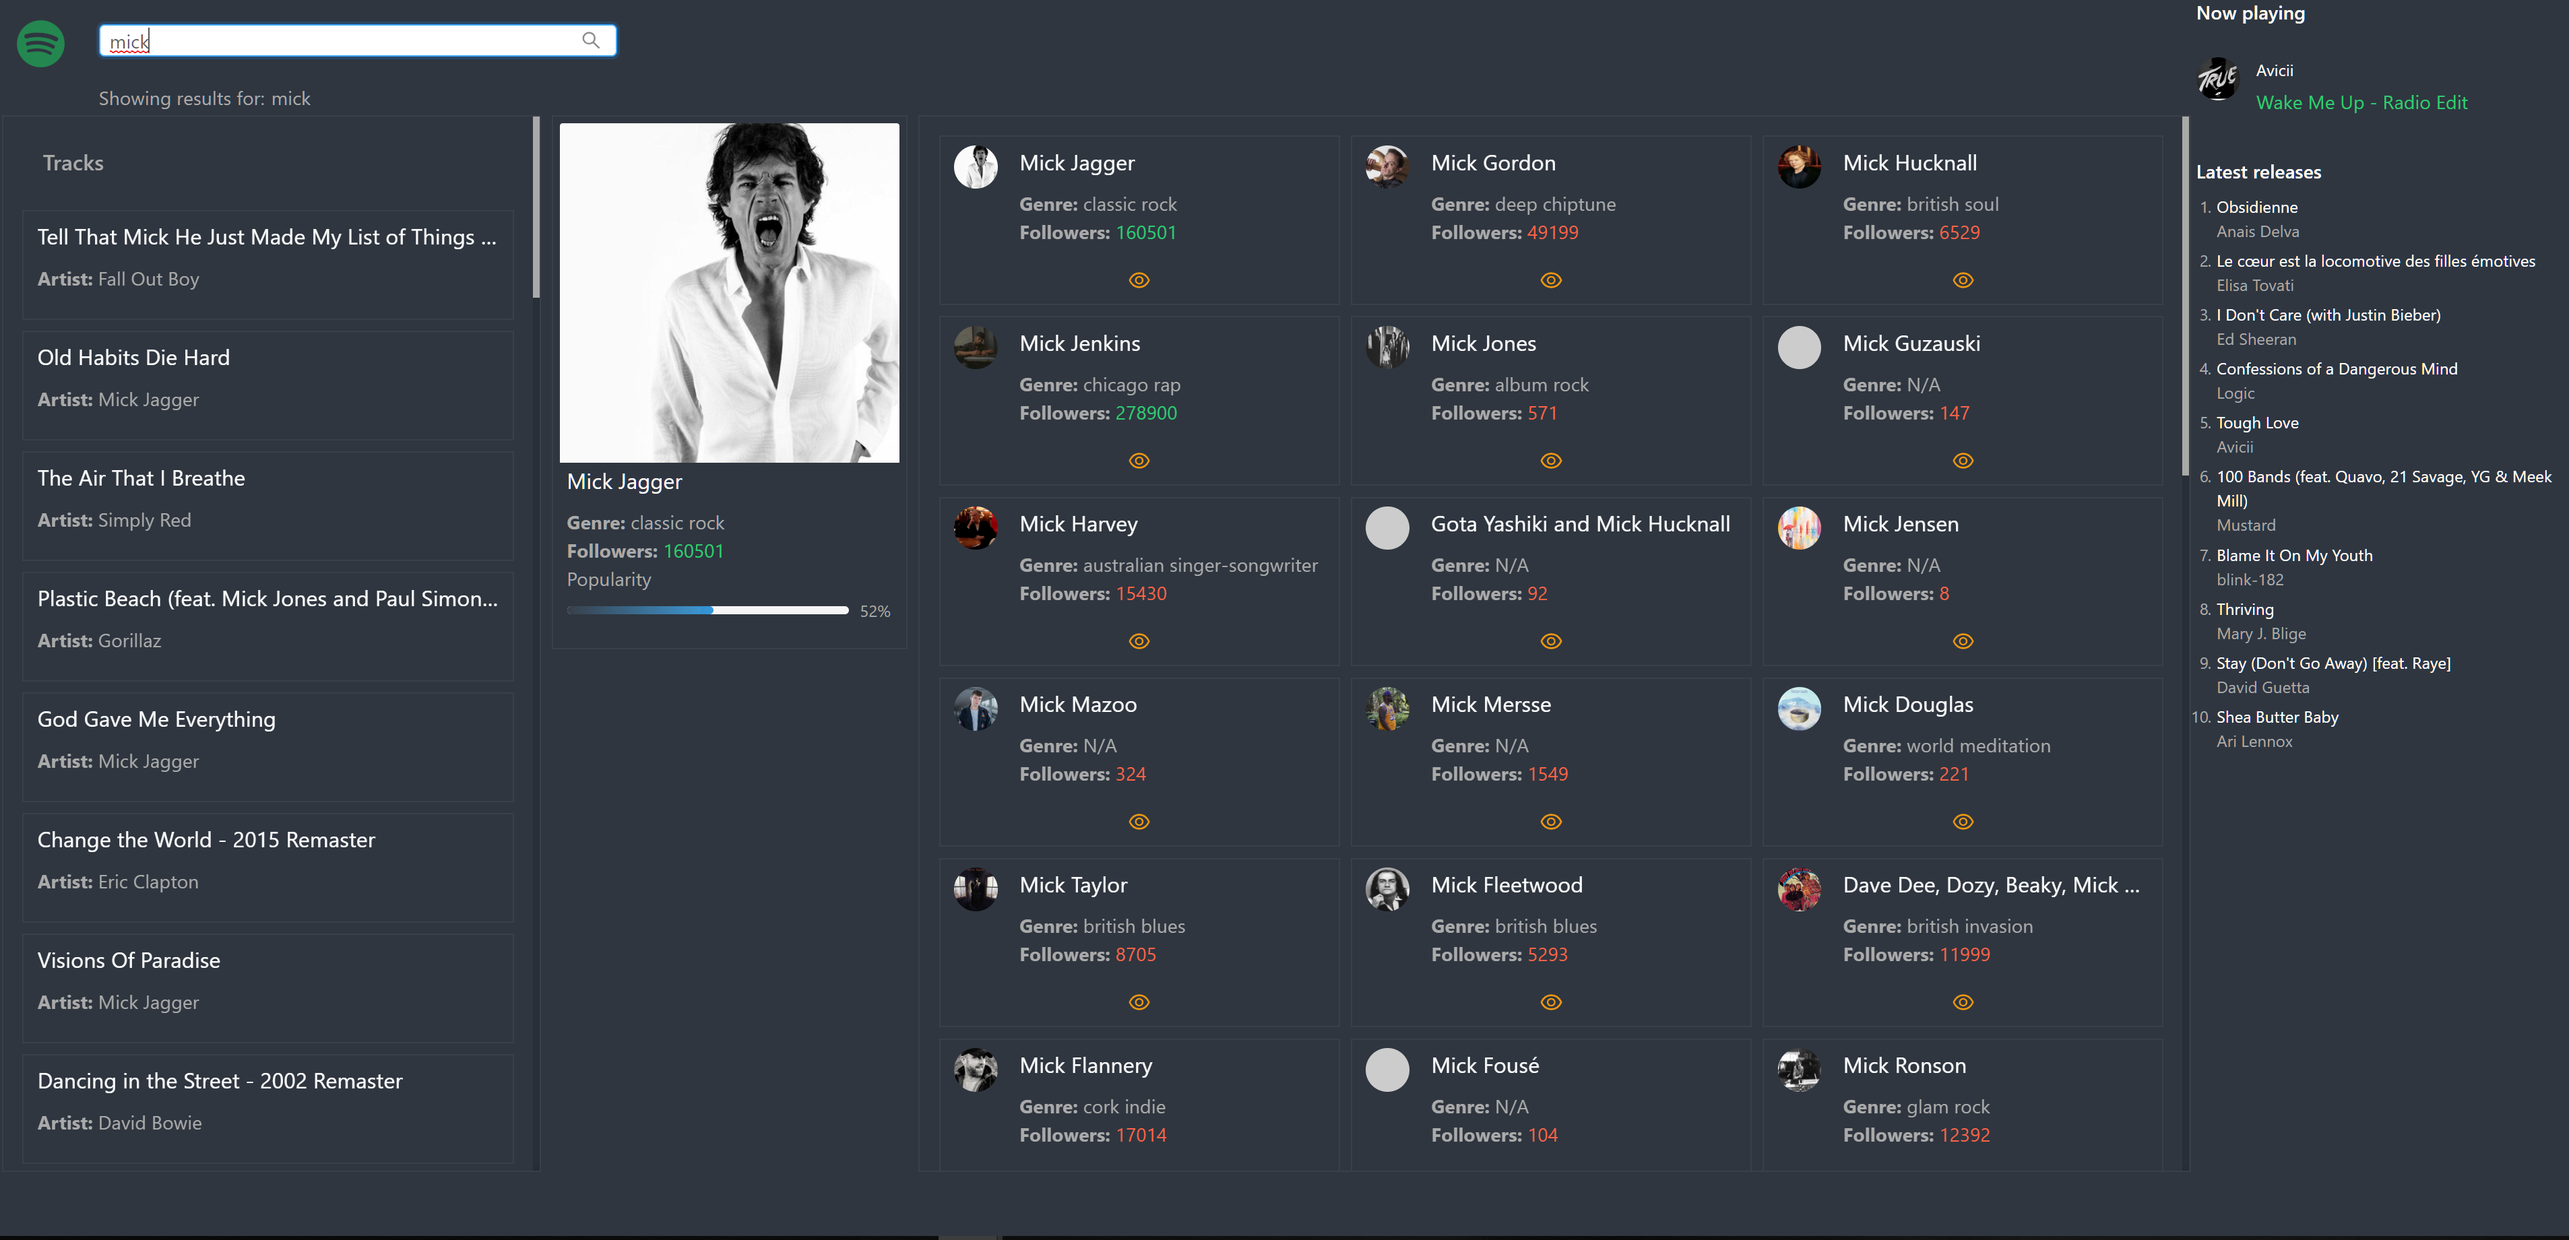
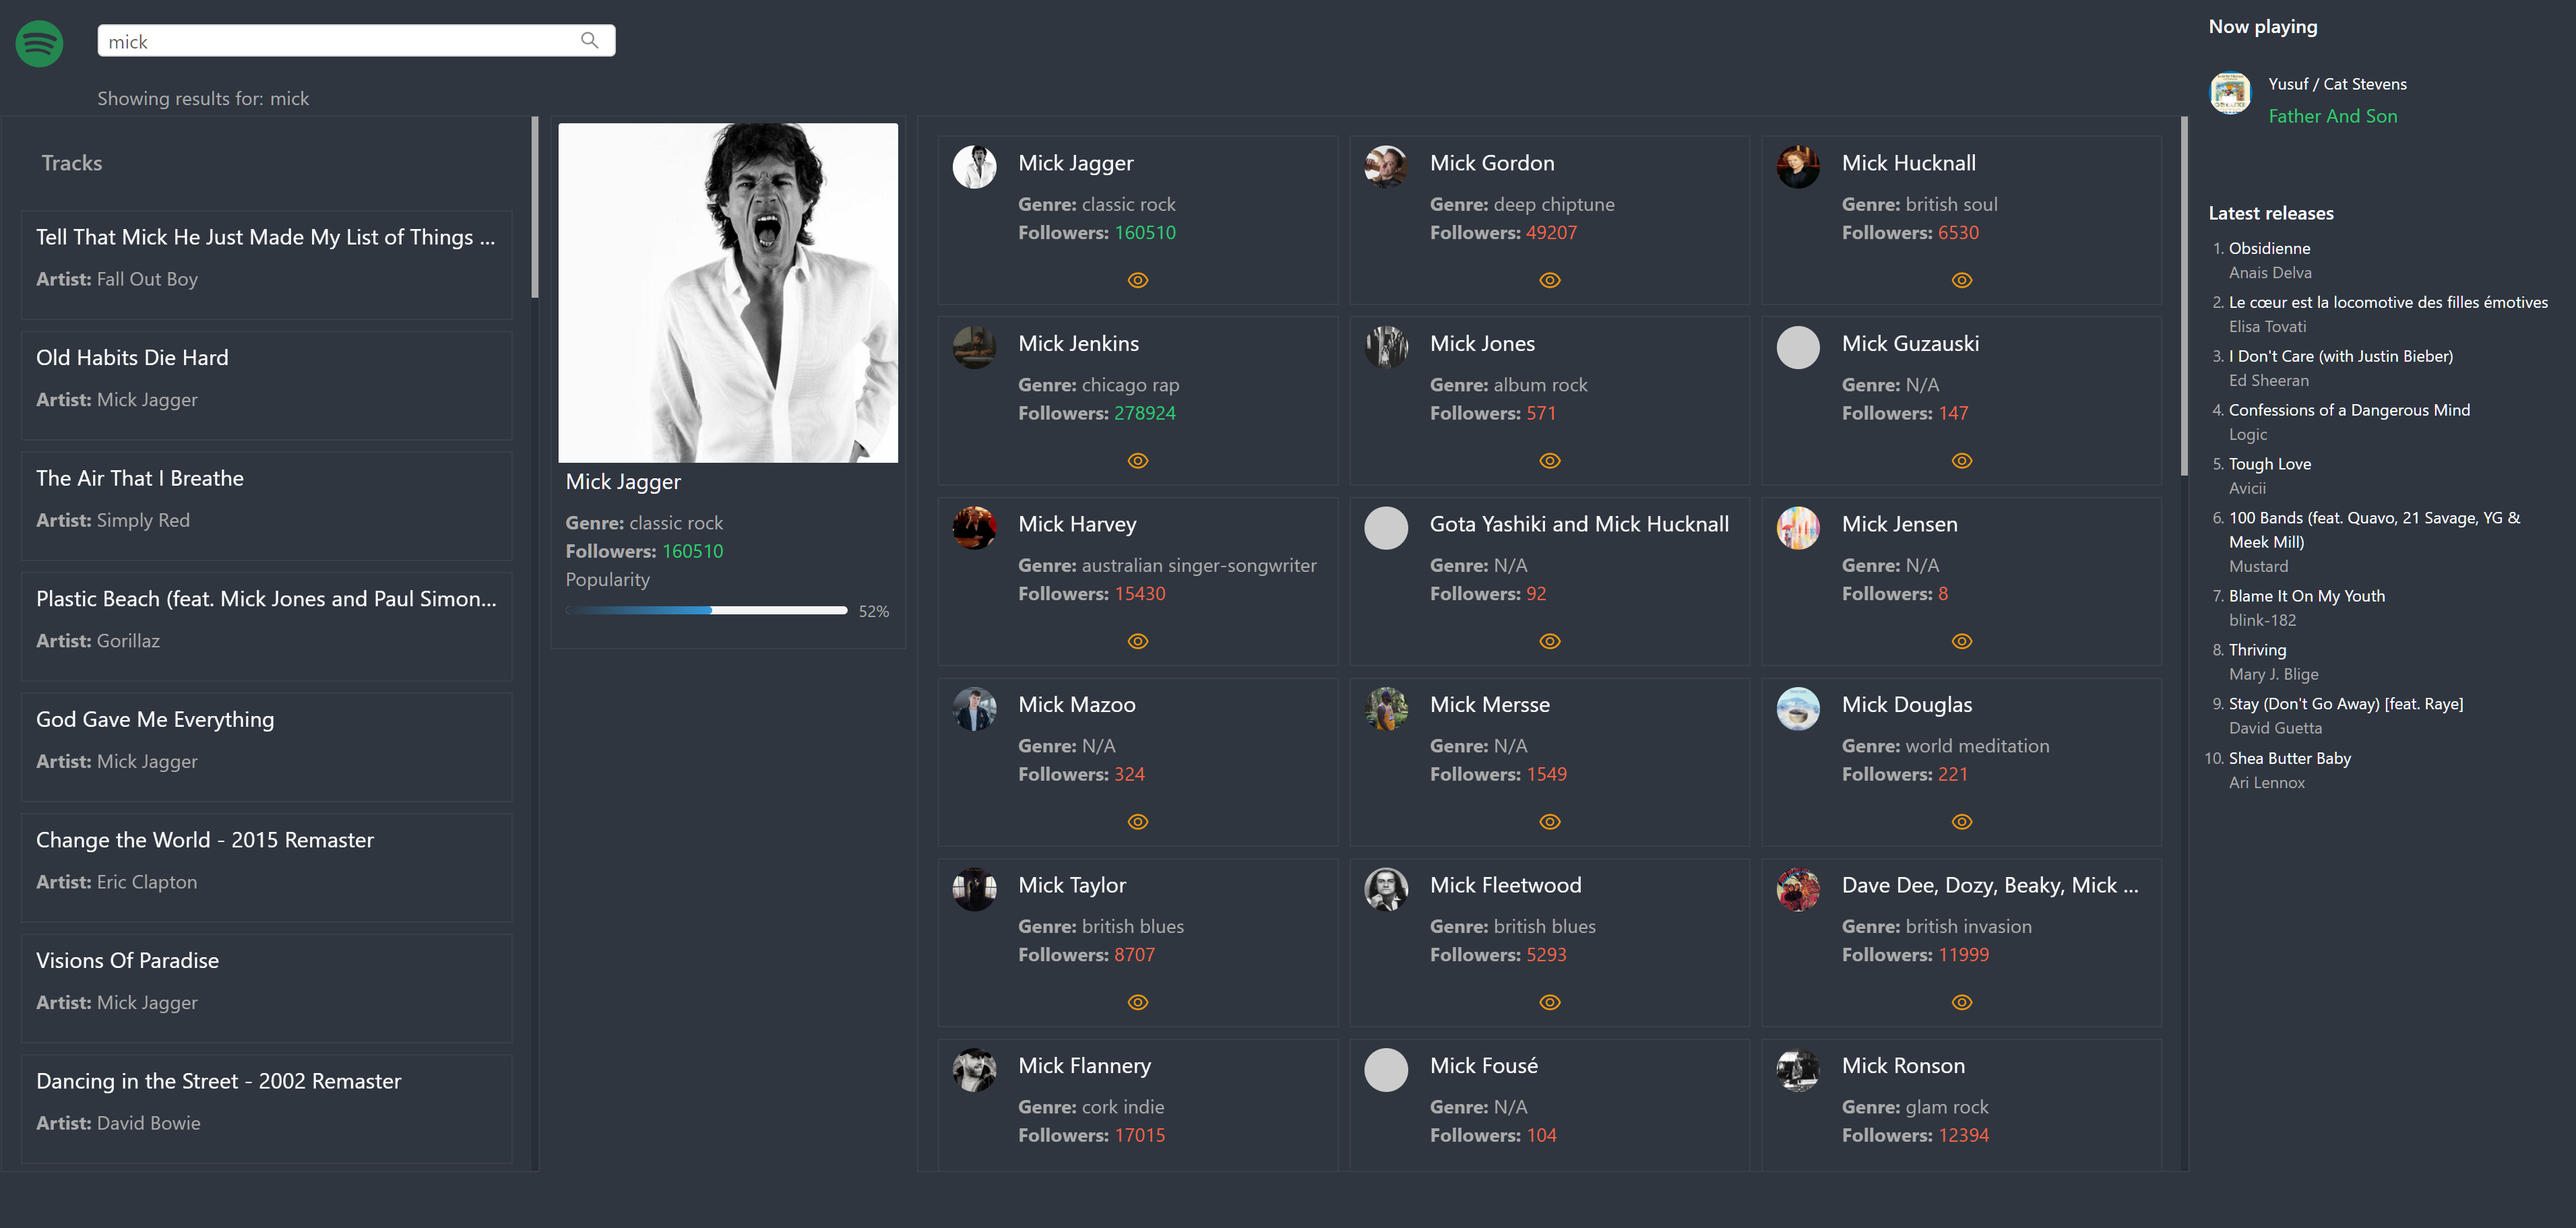
preview

diff --git a/spotify-app/src/App.css b/spotify-app/src/App.css
@@ -61,8 +61,10 @@
 .spfy-app .ant-skeleton-content .ant-skeleton-title,
 .spfy-app .ant-skeleton-content .ant-skeleton-paragraph > li {
   opacity: .15; }
-.spfy-app .sidebar-container h4 {
-  color: #fff; }
+.spfy-app .sidebar-container {
+  padding: 10px; }
+  .spfy-app .sidebar-container h4 {
+    color: #fff; }
 .spfy-app #logo {
   display: inline-block;
   width: 35px;
@@ -75,9 +77,11 @@
     margin: 4px 0; }
     .spfy-app .sidebar-list li span {
       display: block; }
-.spfy-app .now-playing-container,
-.spfy-app .now-playing-container * {
-  color: white; }
+.spfy-app .now-playing-container {
+  padding: 10px; }
+  .spfy-app .now-playing-container,
+  .spfy-app .now-playing-container * {
+    color: white; }
 
 .tomato {
   color: tomato !important; }

diff --git a/spotify-app/src/App.scss b/spotify-app/src/App.scss
@@ -88,11 +88,12 @@ main {
             color: #aaa;
         }
     }
-    .ant-skeleton-content .ant-skeleton-title, 
+    .ant-skeleton-content .ant-skeleton-title,
     .ant-skeleton-content .ant-skeleton-paragraph > li {
         opacity: .15;
     }
     .sidebar-container {
+      padding: 10px;
         h4 {
             color: #fff;
         }
@@ -114,6 +115,7 @@ main {
         }
     }
     .now-playing-container {
+      padding: 10px;
         &,
         * {
             color: white;
